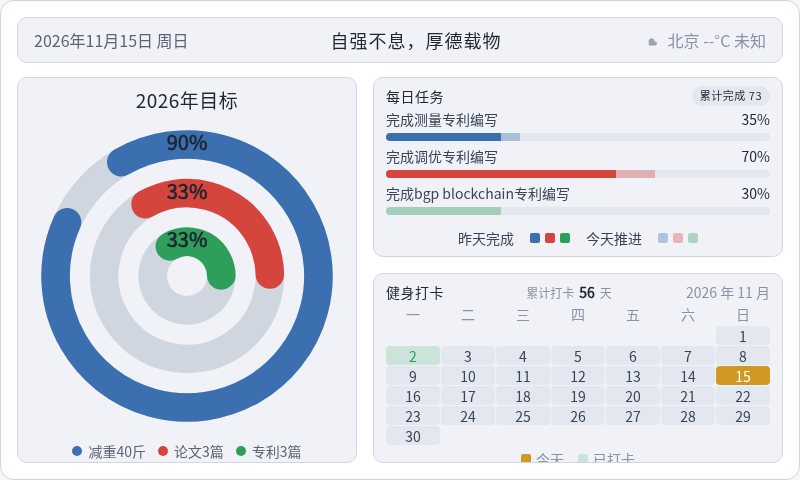
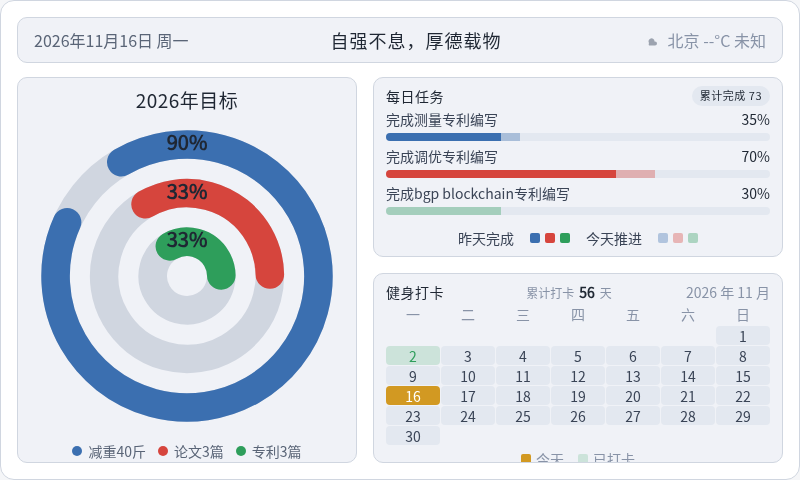
chore: 每日看板刷新 2026-11-16

Changed region(s): [[0.875, 0.75, 0.9688, 0.8125], [0.4688, 0.7812, 0.5625, 0.8438], [0.2188, 0.0625, 0.25, 0.0938]]

diff --git a/output/dashboard/dashboard.html b/output/dashboard/dashboard.html
@@ -185,7 +185,7 @@
 <body>
   <div class="dash">
     <div class="topbar">
-      <div class="tb-date" id="tbDate">2026年11月15日 周日</div>
+      <div class="tb-date" id="tbDate">2026年11月16日 周一</div>
       <div class="tb-slogan">自强不息，厚德载物</div>
       <div class="tb-weather">
         <svg width="16" height="16" viewBox="0 0 16 16" aria-hidden="true"><path d="M5 11 a3 3 0 1 1 5.5 -1.5 h0.5 a2 2 0 1 1 0 4 H5 a2.5 2.5 0 0 1 0 -2.5z" fill="#9ca3af"/></svg>
@@ -248,7 +248,7 @@
           <span class="cal-date">2026 年 11 月</span>
         </div>
         <div class="cal-grid wk"><span>一</span><span>二</span><span>三</span><span>四</span><span>五</span><span>六</span><span>日</span></div>
-        <div class="cal-grid"><span class="cell empty"></span><span class="cell empty"></span><span class="cell empty"></span><span class="cell empty"></span><span class="cell empty"></span><span class="cell empty"></span><span class="cell" style="background:#e3e8f0;color:#3a4456">1</span><span class="cell done" style="background:rgba(46,158,91,0.18);color:#2e9e5b">2</span><span class="cell" style="background:#e3e8f0;color:#3a4456">3</span><span class="cell" style="background:#e3e8f0;color:#3a4456">4</span><span class="cell" style="background:#e3e8f0;color:#3a4456">5</span><span class="cell" style="background:#e3e8f0;color:#3a4456">6</span><span class="cell" style="background:#e3e8f0;color:#3a4456">7</span><span class="cell" style="background:#e3e8f0;color:#3a4456">8</span><span class="cell" style="background:#e3e8f0;color:#3a4456">9</span><span class="cell" style="background:#e3e8f0;color:#3a4456">10</span><span class="cell" style="background:#e3e8f0;color:#3a4456">11</span><span class="cell" style="background:#e3e8f0;color:#3a4456">12</span><span class="cell" style="background:#e3e8f0;color:#3a4456">13</span><span class="cell" style="background:#e3e8f0;color:#3a4456">14</span><span class="cell today" style="background:#d29922;color:#ffffff">15</span><span class="cell" style="background:#e3e8f0;color:#3a4456">16</span><span class="cell" style="background:#e3e8f0;color:#3a4456">17</span><span class="cell" style="background:#e3e8f0;color:#3a4456">18</span><span class="cell" style="background:#e3e8f0;color:#3a4456">19</span><span class="cell" style="background:#e3e8f0;color:#3a4456">20</span><span class="cell" style="background:#e3e8f0;color:#3a4456">21</span><span class="cell" style="background:#e3e8f0;color:#3a4456">22</span><span class="cell" style="background:#e3e8f0;color:#3a4456">23</span><span class="cell" style="background:#e3e8f0;color:#3a4456">24</span><span class="cell" style="background:#e3e8f0;color:#3a4456">25</span><span class="cell" style="background:#e3e8f0;color:#3a4456">26</span><span class="cell" style="background:#e3e8f0;color:#3a4456">27</span><span class="cell" style="background:#e3e8f0;color:#3a4456">28</span><span class="cell" style="background:#e3e8f0;color:#3a4456">29</span><span class="cell" style="background:#e3e8f0;color:#3a4456">30</span></div>
+        <div class="cal-grid"><span class="cell empty"></span><span class="cell empty"></span><span class="cell empty"></span><span class="cell empty"></span><span class="cell empty"></span><span class="cell empty"></span><span class="cell" style="background:#e3e8f0;color:#3a4456">1</span><span class="cell done" style="background:rgba(46,158,91,0.18);color:#2e9e5b">2</span><span class="cell" style="background:#e3e8f0;color:#3a4456">3</span><span class="cell" style="background:#e3e8f0;color:#3a4456">4</span><span class="cell" style="background:#e3e8f0;color:#3a4456">5</span><span class="cell" style="background:#e3e8f0;color:#3a4456">6</span><span class="cell" style="background:#e3e8f0;color:#3a4456">7</span><span class="cell" style="background:#e3e8f0;color:#3a4456">8</span><span class="cell" style="background:#e3e8f0;color:#3a4456">9</span><span class="cell" style="background:#e3e8f0;color:#3a4456">10</span><span class="cell" style="background:#e3e8f0;color:#3a4456">11</span><span class="cell" style="background:#e3e8f0;color:#3a4456">12</span><span class="cell" style="background:#e3e8f0;color:#3a4456">13</span><span class="cell" style="background:#e3e8f0;color:#3a4456">14</span><span class="cell" style="background:#e3e8f0;color:#3a4456">15</span><span class="cell today" style="background:#d29922;color:#ffffff">16</span><span class="cell" style="background:#e3e8f0;color:#3a4456">17</span><span class="cell" style="background:#e3e8f0;color:#3a4456">18</span><span class="cell" style="background:#e3e8f0;color:#3a4456">19</span><span class="cell" style="background:#e3e8f0;color:#3a4456">20</span><span class="cell" style="background:#e3e8f0;color:#3a4456">21</span><span class="cell" style="background:#e3e8f0;color:#3a4456">22</span><span class="cell" style="background:#e3e8f0;color:#3a4456">23</span><span class="cell" style="background:#e3e8f0;color:#3a4456">24</span><span class="cell" style="background:#e3e8f0;color:#3a4456">25</span><span class="cell" style="background:#e3e8f0;color:#3a4456">26</span><span class="cell" style="background:#e3e8f0;color:#3a4456">27</span><span class="cell" style="background:#e3e8f0;color:#3a4456">28</span><span class="cell" style="background:#e3e8f0;color:#3a4456">29</span><span class="cell" style="background:#e3e8f0;color:#3a4456">30</span></div>
         <div class="cal-legend">
           <span style="color:#8893a7"><i class="sw" style="background:#d29922"></i>今天</span>
           <span style="color:#8893a7"><i class="sw" style="background:rgba(46,158,91,0.18)"></i>已打卡</span>
